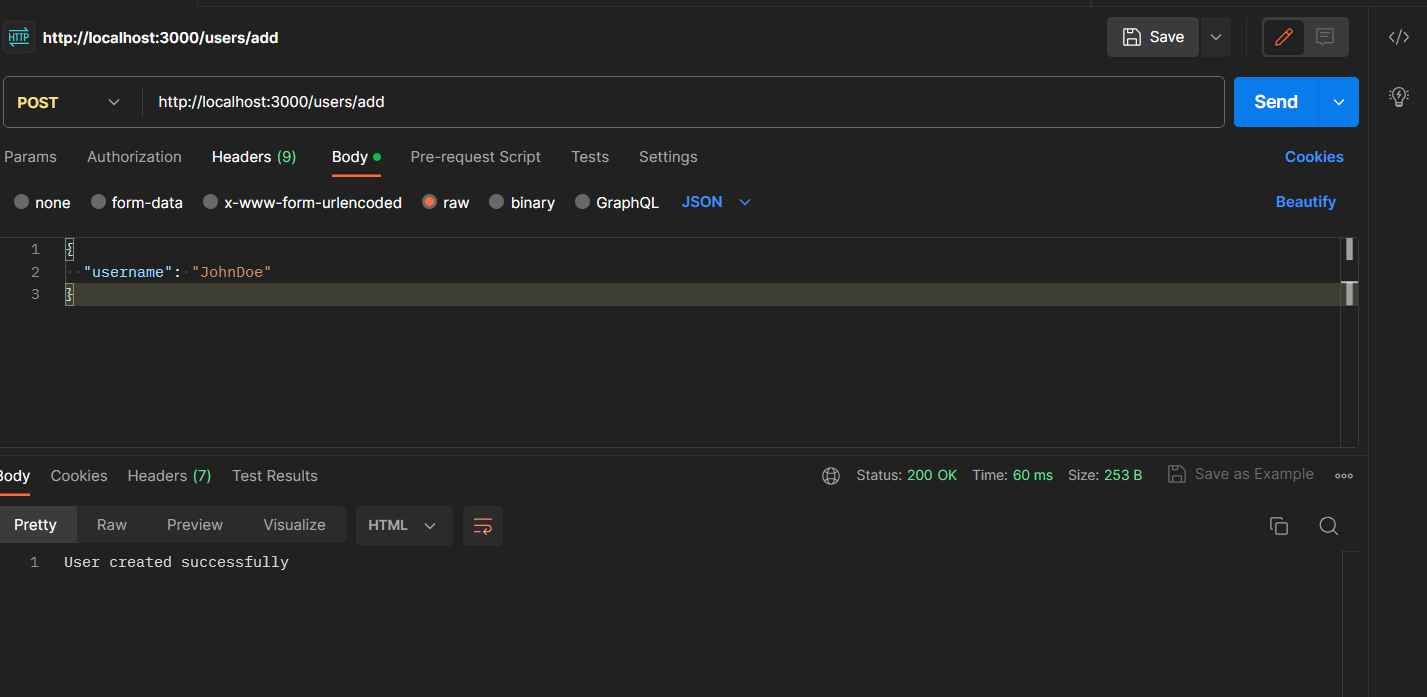
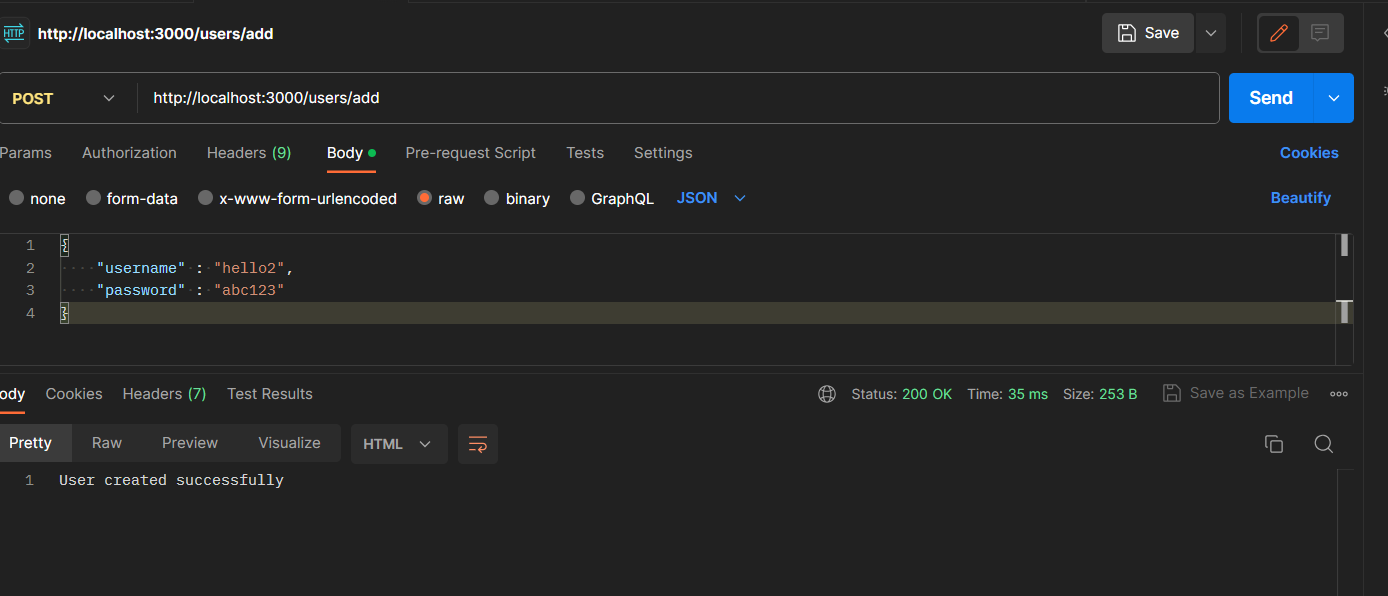
fourth commit

diff --git a/index.js b/index.js
@@ -30,10 +30,12 @@ app.get('/',function(req,res){
 // Create a new user
 app.post('/users/add', function(req, res) {
     const username = req.body.username;
+    const password = req.body.password;
   
     // Create a new user object
     const newUser = new User({
-      username: username
+      username: username ,
+      password : password
     });
   
     // Save the user object to the database
